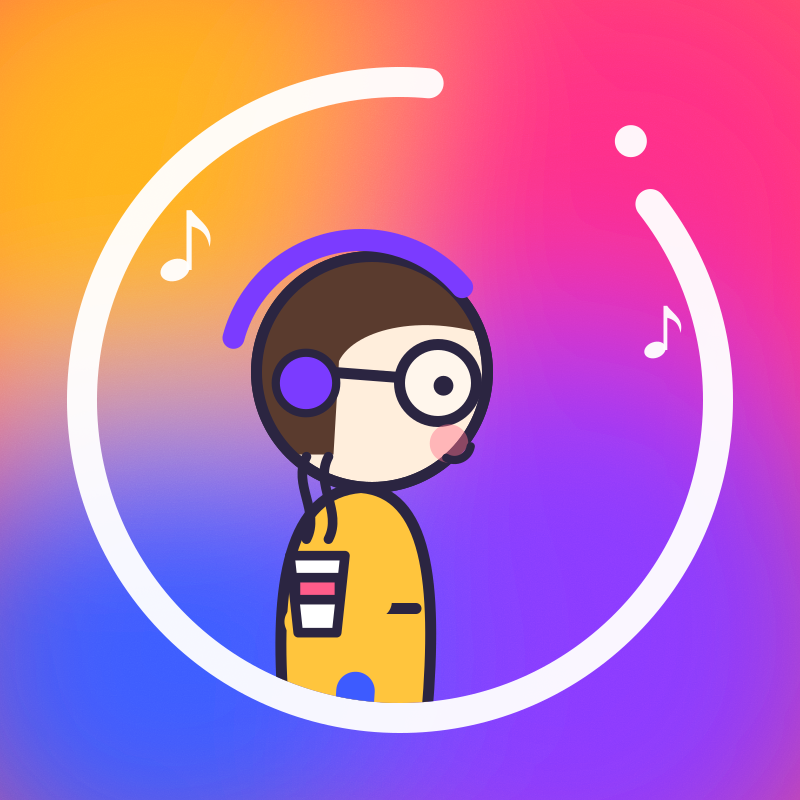
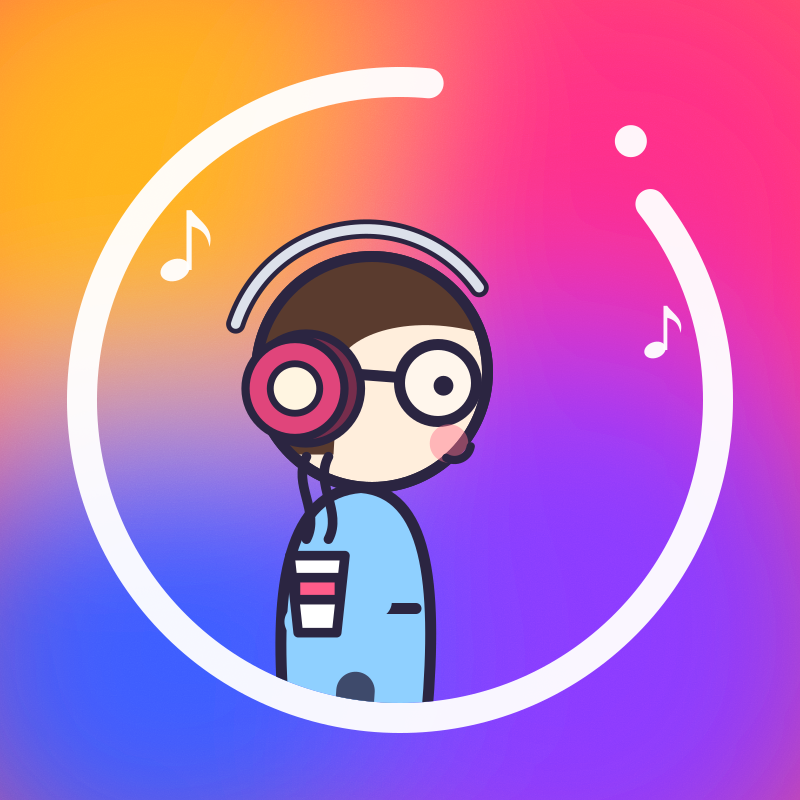
Signature look: sky-blue hoodie with pink retro headphones
- character.py: retro headphone style and the 'signature' outfit, now the
  default; render_video.py gets --outfit.
- Banner, profile and the VOL.01 thumbnail redrawn with the new look.

Claude-Session: https://claude.ai/code/session_01Eg7fx1GG91guzCkE9SfuUw

Changed region(s): [[0.2812, 0.25, 0.625, 0.5625], [0.3438, 0.5938, 0.5312, 0.9062]]

diff --git a/studio/character.py b/studio/character.py
@@ -11,6 +11,8 @@ SKIN, HAIR = (1, 0.93, 0.86), hexc('#5A3B2E')
 OUTFITS = {
     'morning': dict(top='#FFC53D', bottom='#3D5BFF', phones='#7B3BFF', prop='coffee'),
     'street': dict(top='#1E1E24', bottom='#6B6F7A', phones='#F2C230', prop='coffee'),
+    # channel signature look: sky-blue hoodie, retro headphones
+    'signature': dict(top='#8FD0FF', bottom='#3E4A6B', phones='#E0457B', phones_style='retro', prop='coffee'),
 }
 
 def _shape(ctx, fill, L):
@@ -18,7 +20,19 @@ def _shape(ctx, fill, L):
 
 def _smooth(u): u = max(0.0, min(1.0, u)); return u * u * (3 - 2 * u)
 
-def draw(ctx, cx, gy, t, L=hexc('#2B2541'), outfit='morning', walking=True, phase=None, walk=None, reach=0.0, press=0.0):
+def _phones(ctx, style, hx, hy, R, col, L):
+    if style == 'retro':   # slim silver band, big round cups with a cream plate
+        for w_, c in ((7, L), (3.5, (0.86, 0.88, 0.92))):
+            ctx.set_line_width(w_); ctx.set_source_rgb(*c); ctx.arc(hx - 2, hy - 2, R + 8, math.radians(198), math.radians(325)); ctx.stroke()
+        ctx.arc(hx - 24, hy + 6, 20, 0, 2 * math.pi); ctx.set_source_rgb(*lerp(col, (0.12, 0.1, 0.15), 0.55)); ctx.fill_preserve()
+        ctx.set_source_rgb(*L); ctx.set_line_width(3); ctx.stroke()
+        ctx.arc(hx - 28, hy + 6, 18, 0, 2 * math.pi); ctx.set_source_rgb(*col); ctx.fill_preserve(); ctx.set_source_rgb(*L); ctx.stroke()
+        ctx.arc(hx - 28, hy + 6, 9, 0, 2 * math.pi); ctx.set_source_rgb(1, .96, .88); ctx.fill_preserve(); ctx.set_source_rgb(*L); ctx.set_line_width(2.5); ctx.stroke()
+    else:                  # classic thin band
+        ctx.set_line_width(8); ctx.set_source_rgb(*col); ctx.arc(hx - 4, hy, R + 6, math.radians(195), math.radians(320)); ctx.stroke()
+        ctx.arc(hx - 24, hy + 4, 11, 0, 2 * math.pi); ctx.fill_preserve(); ctx.set_source_rgb(*L); ctx.set_line_width(3); ctx.stroke()
+
+def draw(ctx, cx, gy, t, L=hexc('#2B2541'), outfit='signature', walking=True, phase=None, walk=None, reach=0.0, press=0.0):
     """Draw the mascot standing on ground line gy at x=cx, facing right.
     phase: walk-cycle phase (radians); walk: 0..1 stride amount (0 = standing still);
     reach: 0..1 back hand raised to the headphone; press: 0..1 tap pulse while reaching."""
@@ -78,8 +92,7 @@ def draw(ctx, cx, gy, t, L=hexc('#2B2541'), outfit='morning', walking=True, phas
     ctx.set_source_rgba(1, .45, .55, .45); ctx.arc(gx + 4, gy2 + 22, 7, 0, 2 * math.pi); ctx.fill()
     ctx.set_source_rgb(*L); ctx.set_line_width(3); ctx.arc(hx + 30, hy + 26, 6, math.radians(10), math.radians(120)); ctx.stroke()
     # outfit: headphones
-    ctx.set_line_width(8); ctx.set_source_rgb(*phones); ctx.arc(hx - 4, hy, R + 6, math.radians(195), math.radians(320)); ctx.stroke()
-    ctx.arc(hx - 24, hy + 4, 11, 0, 2 * math.pi); ctx.fill_preserve(); ctx.set_source_rgb(*L); ctx.set_line_width(3); ctx.stroke()
+    _phones(ctx, o.get('phones_style', 'classic'), hx, hy, R, phones, L)
     if reach > 0: back_arm(_smooth(reach))
     # outfit: front arm + prop
     ctx.set_line_width(12); ctx.set_source_rgb(*top)

diff --git a/studio/render_video.py b/studio/render_video.py
@@ -24,6 +24,7 @@ ap.add_argument('songs', help='folder with numbered audio files, e.g. "1.Golden 
 ap.add_argument('-o', '--out', default='output.mp4', help='output video path')
 ap.add_argument('--gap', type=float, default=1.5, help='seconds of silence between songs')
 ap.add_argument('--seed', type=int, default=21, help='scenery seed (change it for a different walk)')
+ap.add_argument('--outfit', default='signature', help='mascot outfit from studio/character.py OUTFITS')
 ap.add_argument('--stills', help='comma-separated times in seconds: save PNG stills instead of rendering the video')
 ap.add_argument('--scenes', help='storyboard JSON with per-song scenes and lyric beats (default: storyboard.json or scenes.json in the songs folder). '
                 'Lyric timings are read from a timing/ folder next to it (see align_lyrics.py).')
@@ -657,7 +658,7 @@ def scene(t, scroll, phase, walk, reach, press, ba, bs):
             ph = (t * .8 + j / 3) % 1
             ctx.set_font_size(30 + 6 * j); ctx.set_source_rgba(*hexc(['#FF5C8A', '#FFB21A', '#7B3BFF'][j]), ca * (1 - ph))
             ctx.move_to(CX - 70 + j * 60 + 10 * math.sin(t * 3 + j), GY - 250 - 90 * ph); ctx.show_text('\u266a' if j % 2 else '\u266b')
-    ch.draw(ctx, CX, GY, t, L=hexc('#2B2541'), phase=phase, walk=walk, reach=reach, press=press)
+    ch.draw(ctx, CX, GY, t, L=hexc('#2B2541'), outfit=args.outfit, phase=phase, walk=walk, reach=reach, press=press)
     for rt, icon in REACTS:   # the mascot reacts to what it passes
         k = t - rt
         if 0 <= k < 2.2 and ba < 0.05:
